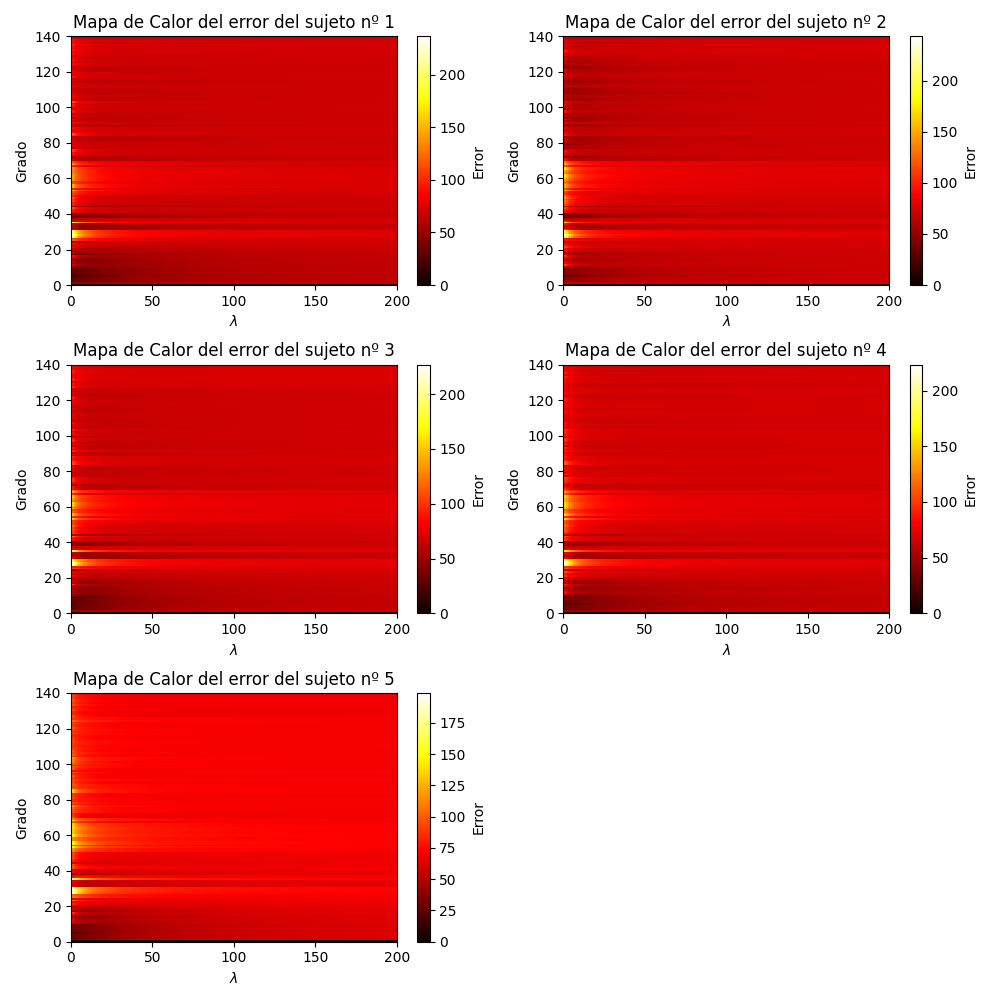
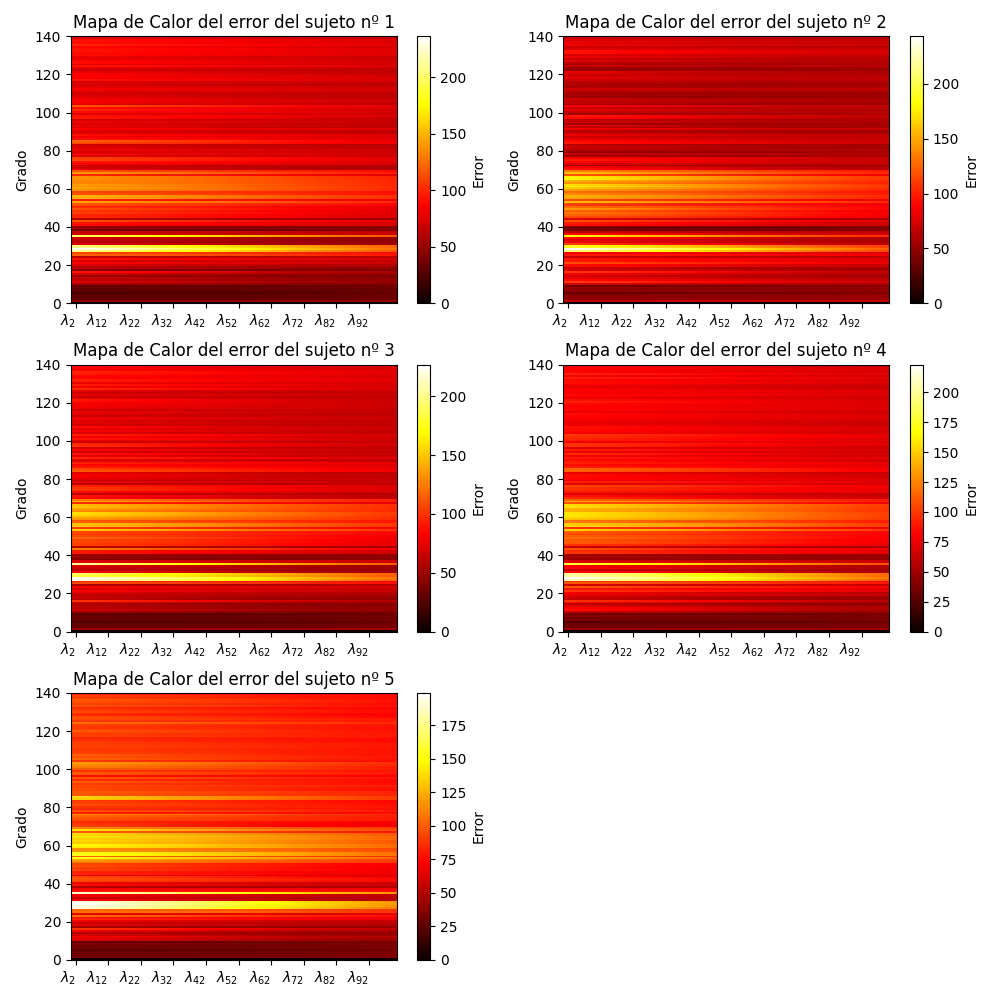
Tp3

diff --git a/tp3/experimentos.py b/tp3/experimentos.py
@@ -1,6 +1,7 @@
 import matplotlib.pyplot as plt
 import multiprocessing as mp
 import desarrollo as ds
+import numpy as np
 
 def plot_error_sujeto_1():
     grados, err_ajuste, err_val = ds.predecir_sin_reg(sujeto=1)
@@ -16,33 +17,38 @@ def plot_error_sujeto_1():
     plt.show()
 
 def heatmap_sujetos(error, sujeto, ax):
+    lambdas = np.logspace(1e-8,1, 100)
+    lambda_range = range(1,len(lambdas),10)
+
     cax = ax.pcolor(error, cmap='hot', shading='auto') 
     plt.colorbar(cax, ax=ax, label='Error')
-    
+
+    ax.set_xticks(np.arange(1,len(lambdas),10) + 0.5)
+    ax.set_xticklabels([f'$\lambda_{{{i+1}}}$' for i in lambda_range], ha='right')
+
     ax.set_title(f'Mapa de Calor del error del sujeto nº {sujeto}')
     ax.set_ylabel('Grado')
-    ax.set_xlabel('$\lambda$')
 
 def explorar_en_sujeto(sujeto):
     x_aju, y_aju = ds.leer_datos('./datos/ajuste.txt', sujeto)
     x_val, y_val = ds.leer_datos('./datos/validacion.txt', sujeto)
 
     max_g = 2*x_aju.shape[0]
-    max_l = 200
+    cant_l = 100
 
-    lambdas = [i for i in range(1, max_l)]
+    lambdas = np.logspace(1e-8,1, cant_l)
     grados  = [i for i in range(1, max_g)]
 
     g_opt = -1
     l_opt = -1
-    error = [[0] * max_l for _ in range(max_g)]
+    error = [[0] * cant_l for _ in range(max_g)]
     min_err = 1e8
 
     for g in grados:
-        for l in lambdas:
-            error[g][l] = ds.predecir_con_reg(x_aju, y_aju, x_val, y_val, g, l)
-            if error[g][l] < min_err:
-                min_err = error[g][l]
+        for i,l in enumerate(lambdas):
+            error[g][i] = ds.predecir_con_reg(x_aju, y_aju, x_val, y_val, g, l)
+            if error[g][i] < min_err:
+                min_err = error[g][i]
                 g_opt = g
                 l_opt = l
 
